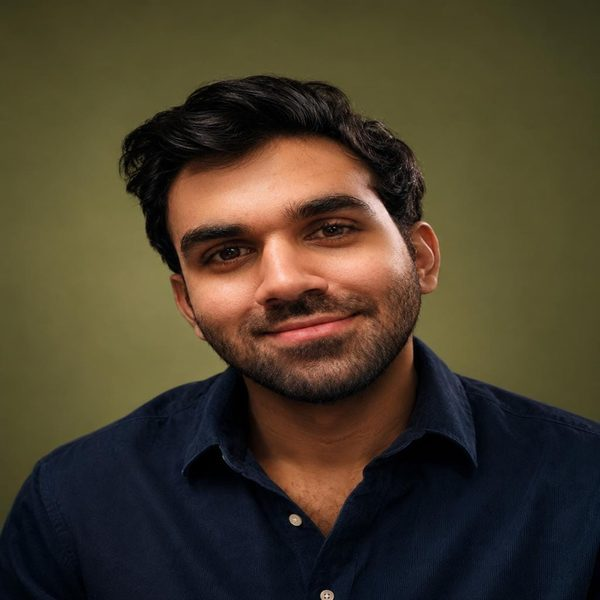
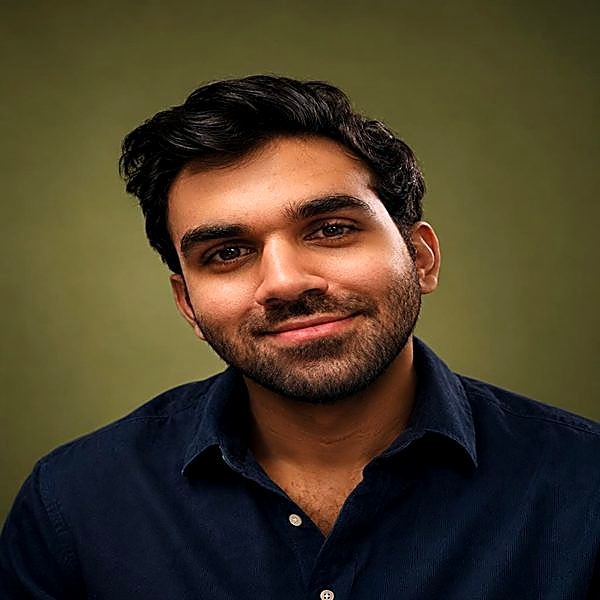
Center profile row and enhance photo quality
- Enhance photo: UnsharpMask sharpening, +8% contrast, +5% saturation,
  saved at JPEG quality 95 for crisp rendering on retina/4K displays
- Center profile row with justify-content: center
- Increase avatar from 80px to 86px with stronger shadow
- Add image-rendering: high-quality for sharp scaling
- Slightly bump name to 22px and title to 12px for better balance

diff --git a/src/app/max/MaxCard.tsx b/src/app/max/MaxCard.tsx
@@ -131,34 +131,34 @@ export function MaxCard() {
         .mc-profile-row {
           display: flex;
           align-items: center;
+          justify-content: center;
           gap: 18px;
-          text-align: left;
         }
         .mc-avatar {
-          width: 80px;
-          height: 80px;
+          width: 86px;
+          height: 86px;
           border-radius: 50%;
           object-fit: cover;
           border: 3px solid var(--cloud);
           flex-shrink: 0;
-          box-shadow: 0 4px 12px rgba(6,48,74,0.12);
+          box-shadow: 0 6px 16px rgba(6,48,74,0.15);
+          image-rendering: high-quality;
         }
         .mc-profile-info {
-          flex: 1;
-          min-width: 0;
+          text-align: left;
         }
         .mc-name {
           font-family: 'Fredoka', sans-serif;
           font-weight: 600;
-          font-size: 21px;
+          font-size: 22px;
           color: var(--navy);
           line-height: 1.2;
         }
         .mc-title {
           margin-top: 4px;
-          font-size: 11.5px;
+          font-size: 12px;
           font-weight: 700;
-          letter-spacing: 1.4px;
+          letter-spacing: 1.5px;
           text-transform: uppercase;
           color: var(--sky-deep);
         }
@@ -167,7 +167,7 @@ export function MaxCard() {
           display: flex;
           align-items: center;
           gap: 7px;
-          font-size: 12px;
+          font-size: 12.5px;
           color: var(--ink);
           opacity: 0.6;
         }
